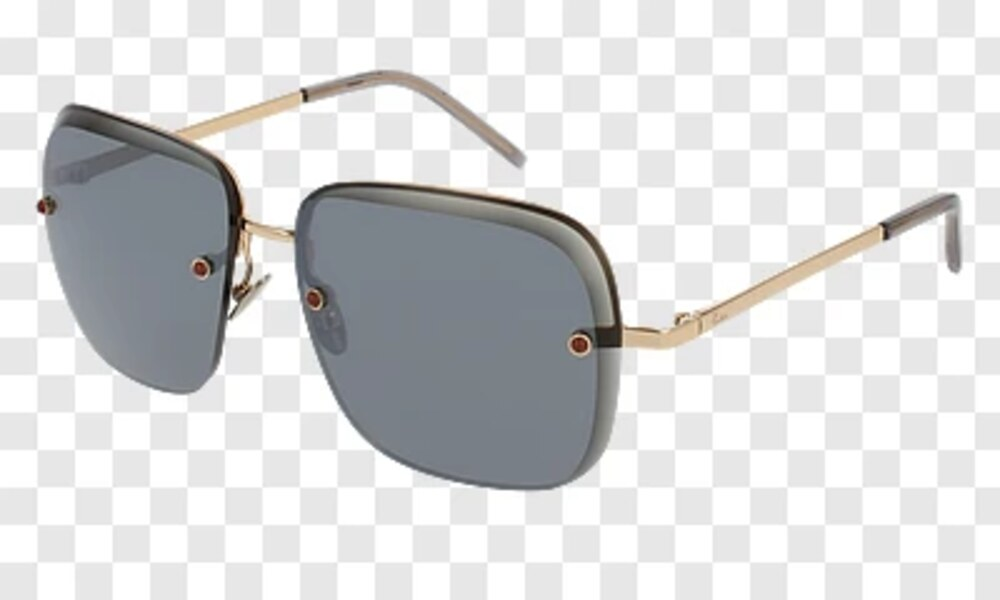
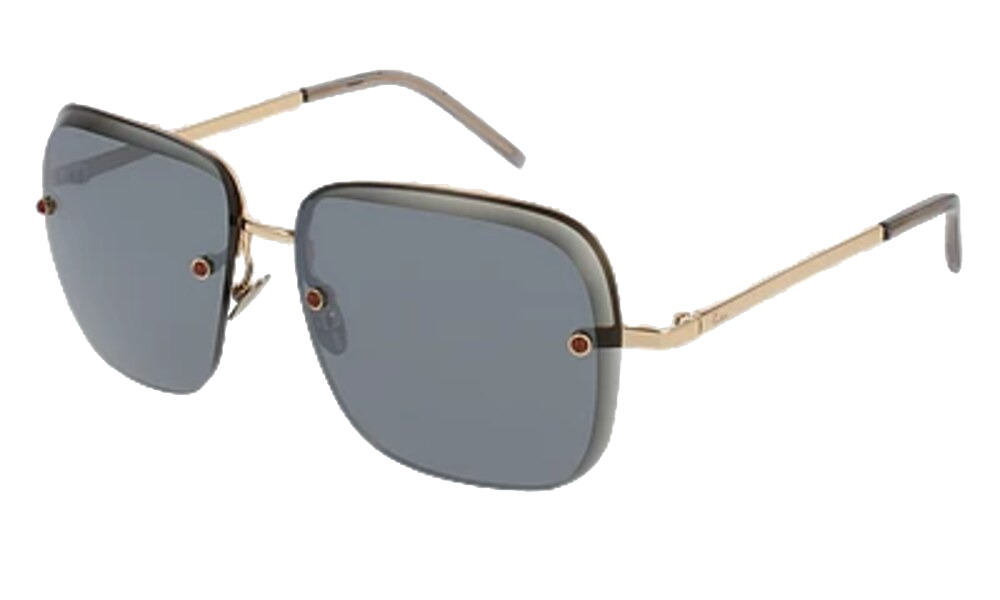
Show clean product photos on the homepage
Four of the eight product photos (Designer Octave, Square Matte Black,
Sporty Blue Light and Minimalist Metal Frame) were screenshots of an
image editor's transparency grid saved as JPEGs, so a checkerboard sat
behind the glasses on the homepage and the product pages. A fifth
(Classic Black Sunglasses) is still the "coming soon" placeholder and was
one of the three featured products on the homepage.

Replace the grid with white in the four photos (the frames, lenses and
edges are untouched), and keep the placeholder off the homepage by
featuring the Vintage Round Eyeglasses in its place.

diff --git a/database/seeders/ProductSeeder.php b/database/seeders/ProductSeeder.php
@@ -28,7 +28,10 @@ class ProductSeeder extends Seeder
                 'category' => 'sunglasses',
                 'price' => 49.99,
                 'image_url' => 'images/sunglasses1.jpg',
-                'is_featured' => 1,
+                // Its photo is still the "coming soon" placeholder, so it stays
+                // off the homepage collection, which shows the first three
+                // featured products.
+                'is_featured' => 0,
                 'on_sale' => 0,
                 'created_at' => $now,
                 'updated_at' => $now,
@@ -70,7 +73,7 @@ class ProductSeeder extends Seeder
                 'category' => 'eyeglasses',
                 'price' => 59.99,
                 'image_url' => 'images/eyeglasses5.jpg',
-                'is_featured' => 0,
+                'is_featured' => 1,
                 'on_sale' => 1,
                 'created_at' => $now,
                 'updated_at' => $now,
